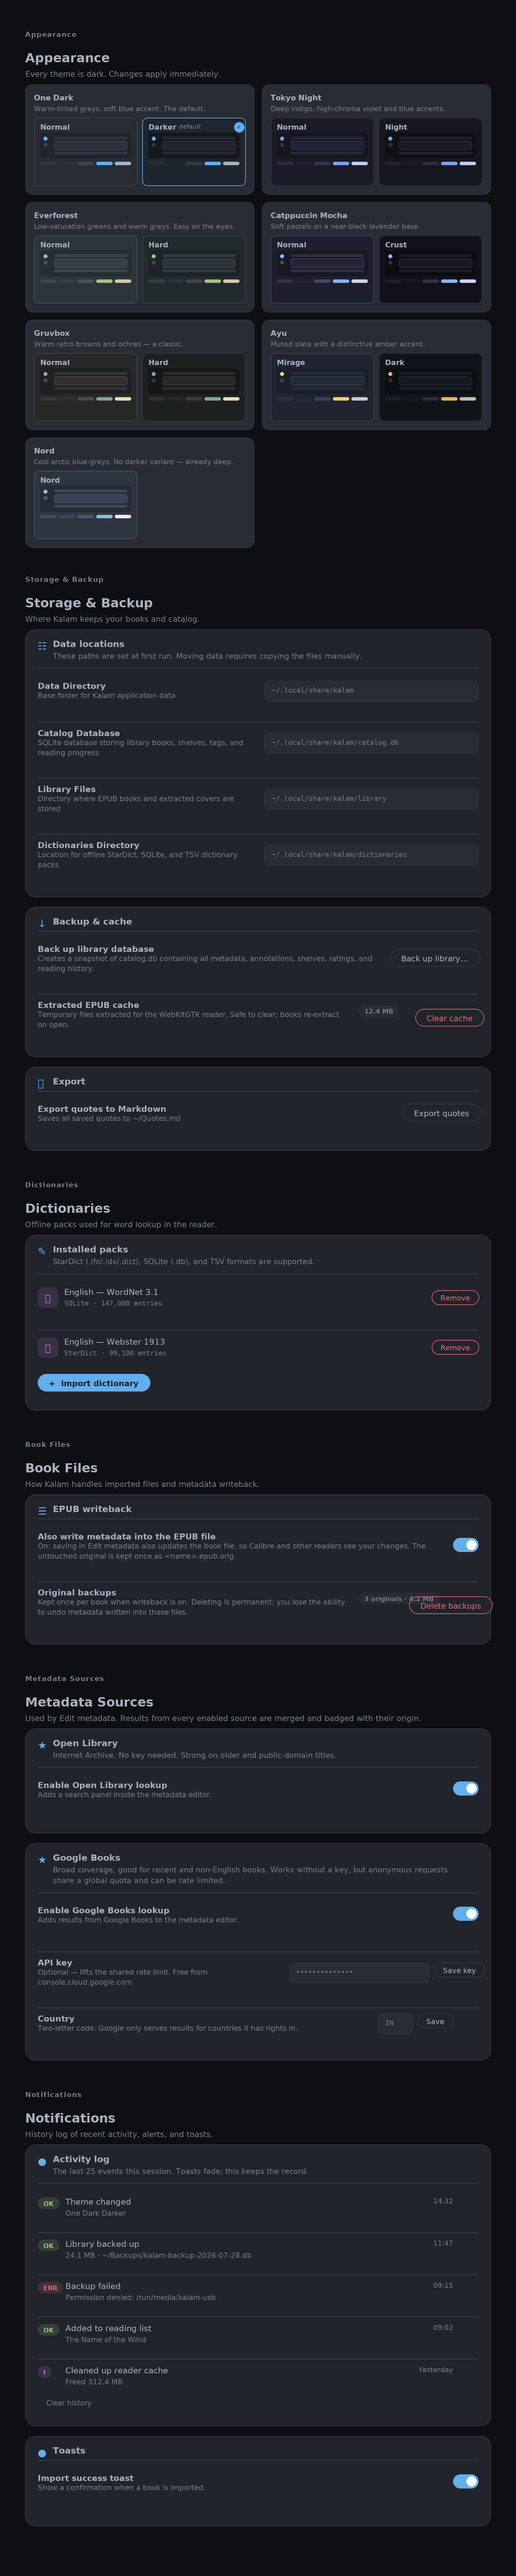
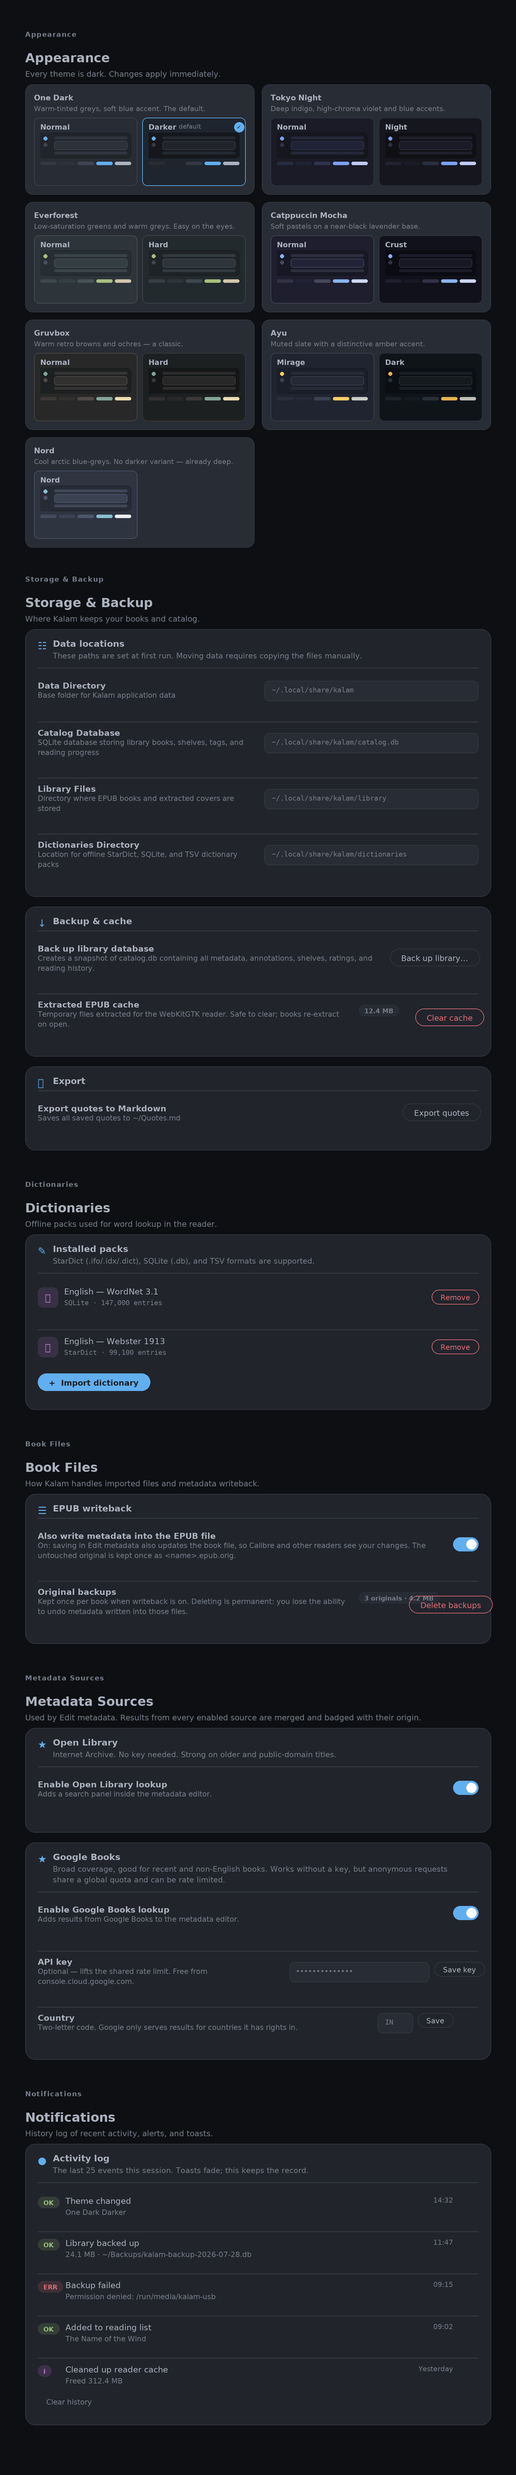
design: drop Toasts card from Settings mockups — all toasts on by default

Changed region(s): [[0.0305, 0.0, 0.9756, 0.9924]]

diff --git a/docs/design/mockup_settings.py b/docs/design/mockup_settings.py
@@ -490,12 +490,6 @@ def notif_panel(d, x, y, w):
     y = section_card(d, x, y, w, "●", "Activity log",
                      "The last 25 events this session. Toasts fade; this keeps the record.",
                      rows, footer=clear_footer)
-    def toast_row(d, x, y, w):
-        def control(d, cx, cy):
-            return switch(d, cx-40, cy+2)
-        return row(d, x, y, w, "Import success toast",
-                   "Show a confirmation when a book is imported.", control, 40)
-    y = section_card(d, x, y, w, "●", "Toasts", None, [toast_row])
     return y
 
 # ── chrome: app rail + settings nav ──────────────────────────────────
